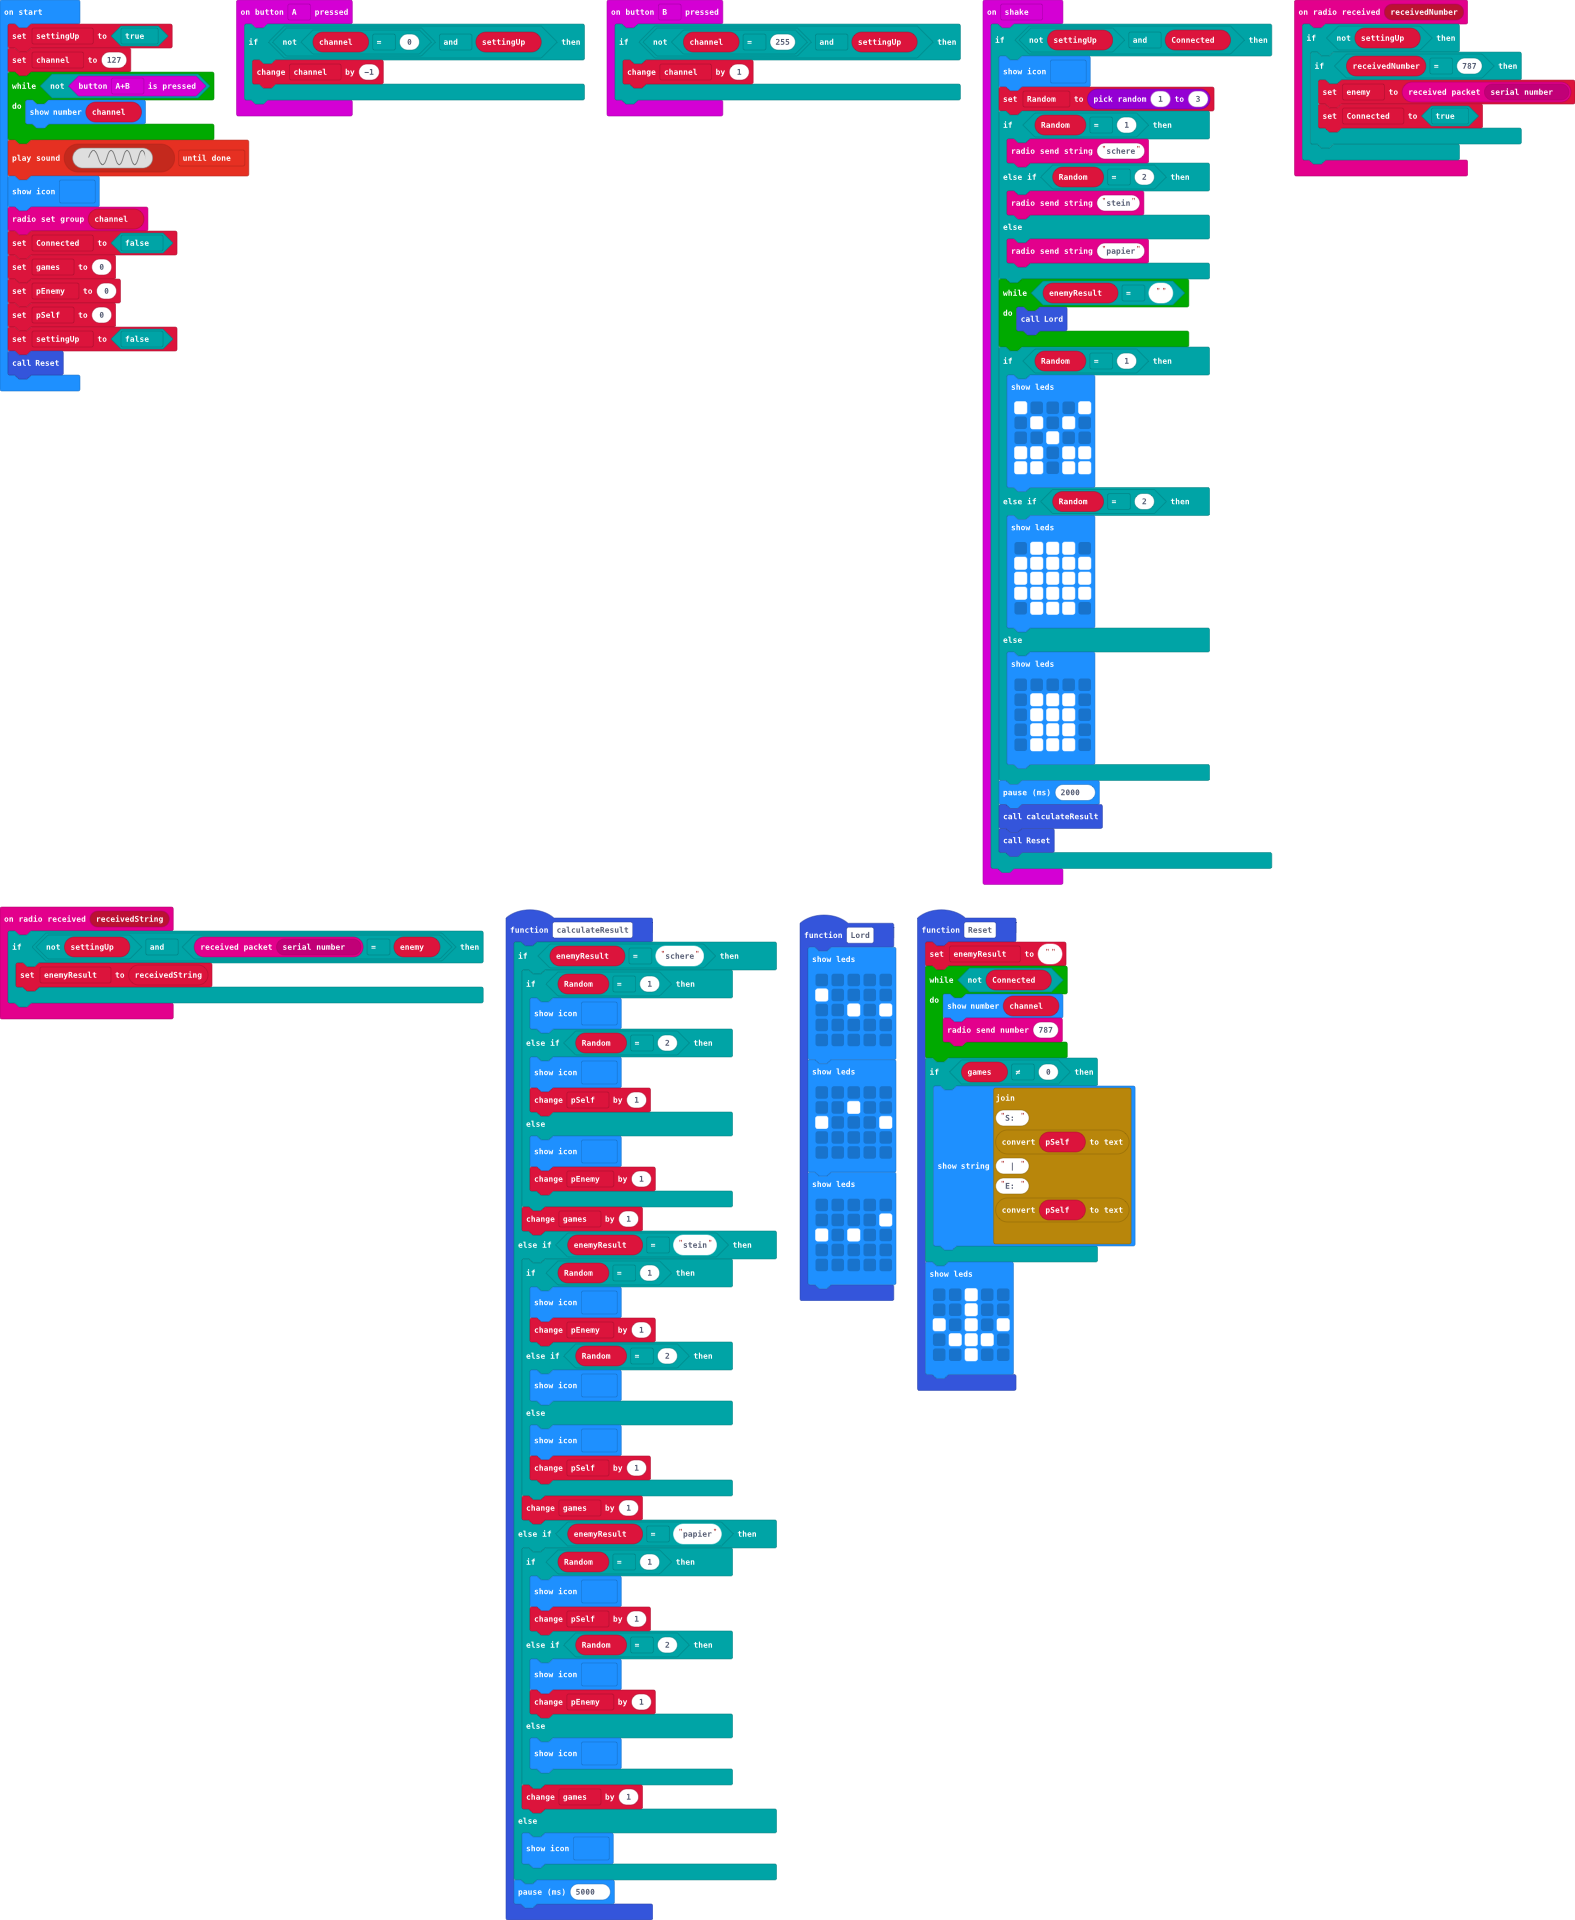
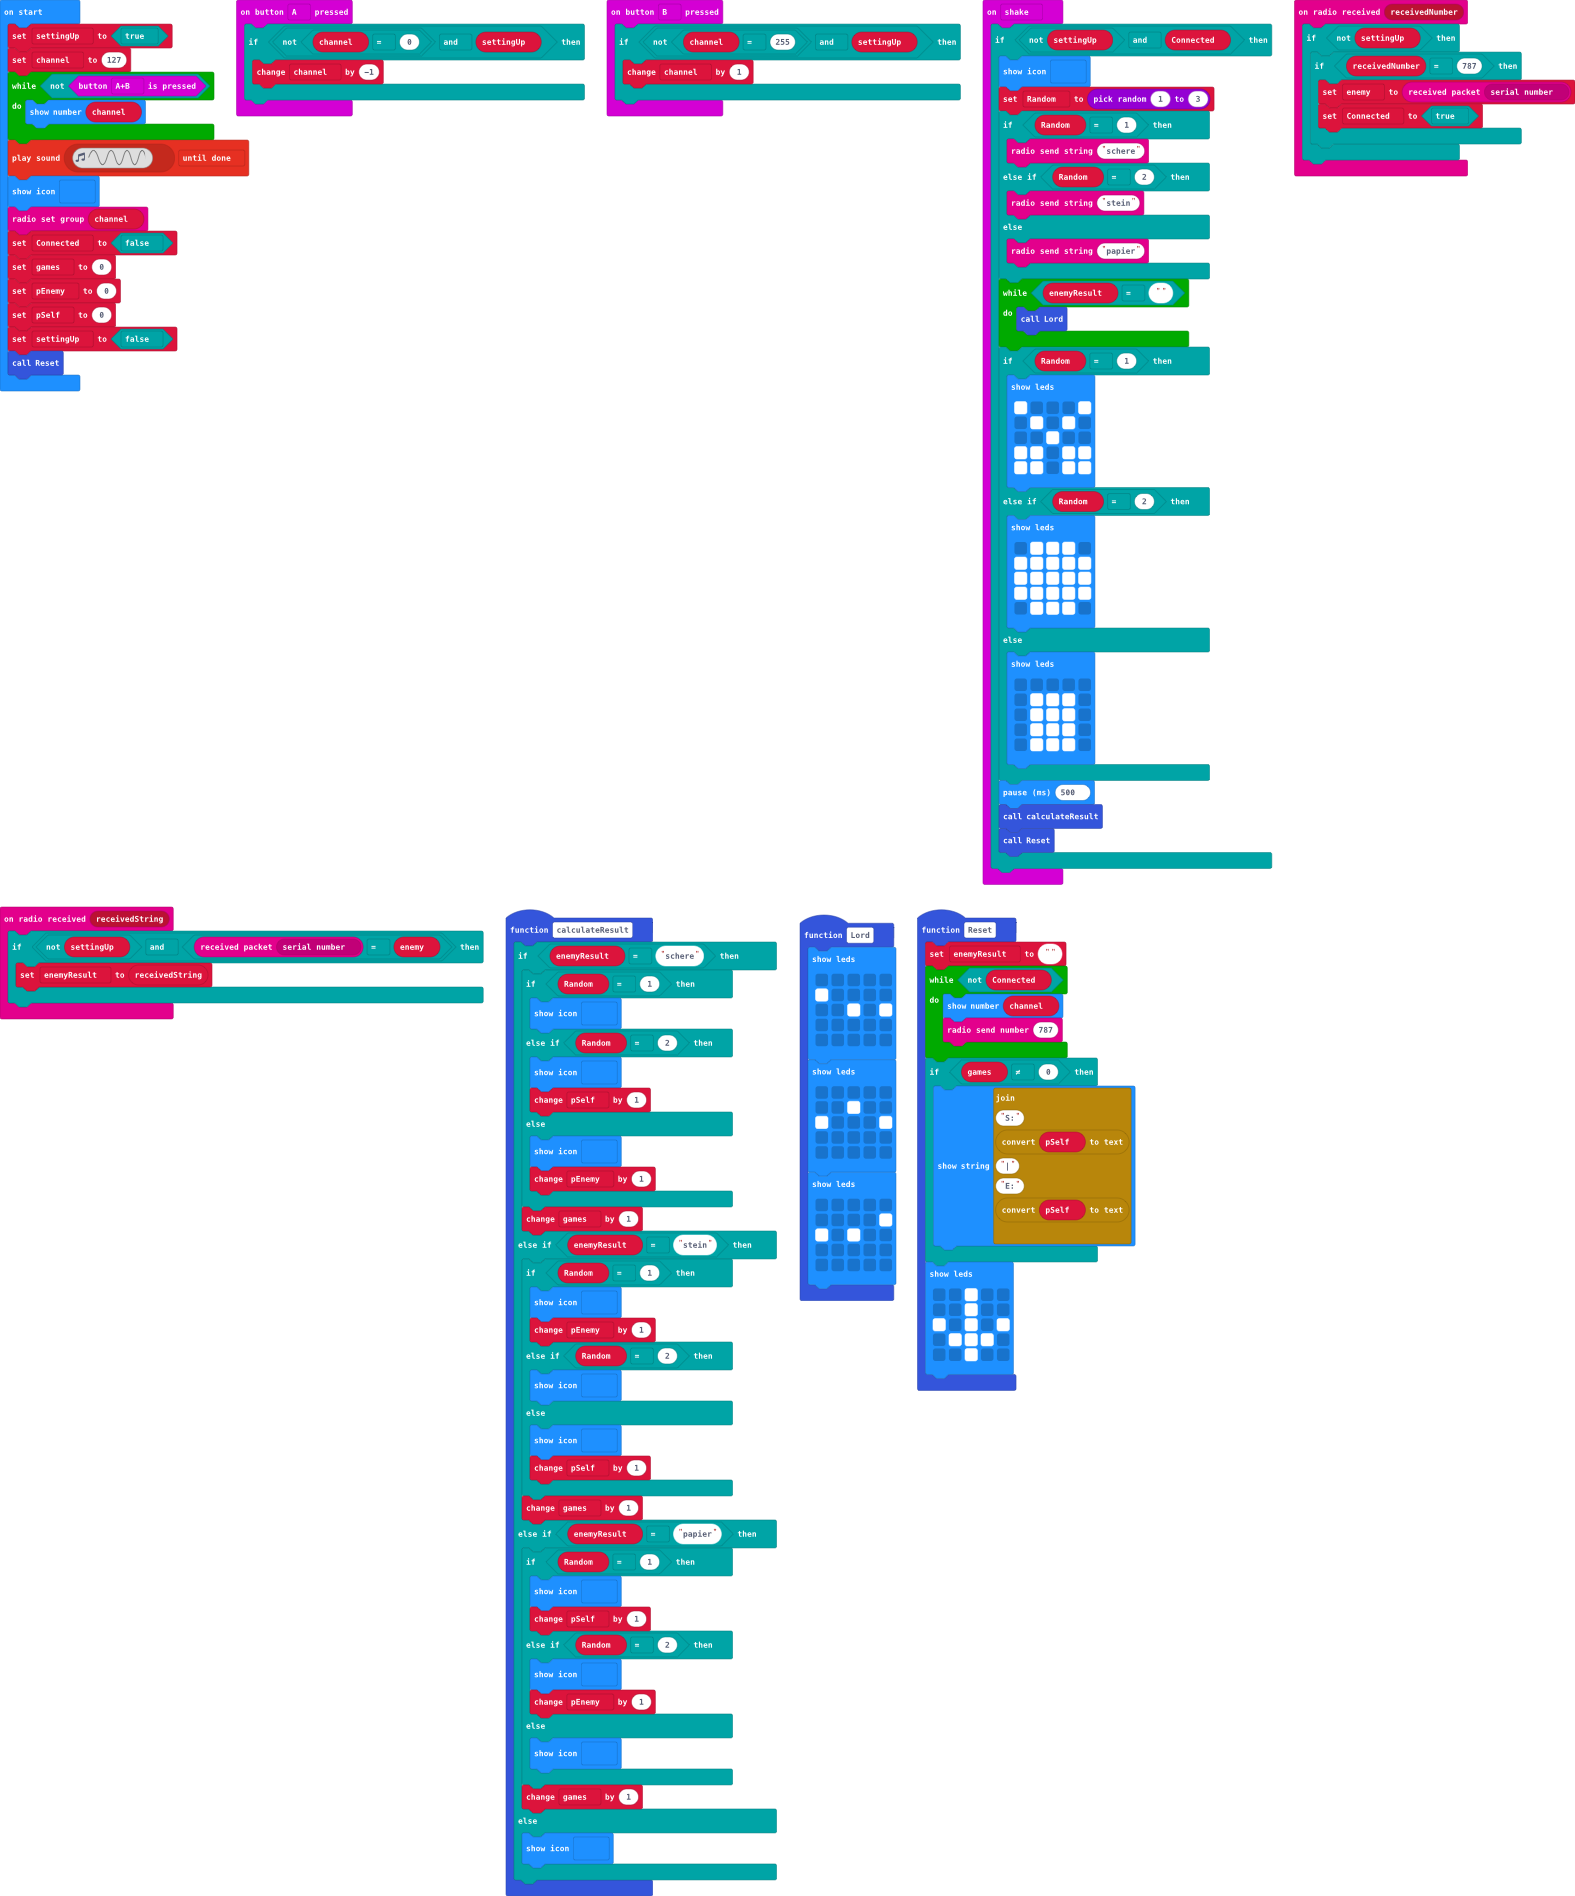
Update main.blocks, main.ts

diff --git a/main.ts b/main.ts
@@ -43,7 +43,6 @@ function calculateResult () {
     } else {
         basic.showIcon(IconNames.Confused)
     }
-    basic.pause(5000)
 }
 input.onButtonPressed(Button.A, function () {
     if (!(channel == 0) && settingUp) {
@@ -99,7 +98,7 @@ input.onGesture(Gesture.Shake, function () {
                 . # # # .
                 `)
         }
-        basic.pause(2000)
+        basic.pause(500)
         calculateResult()
         Reset()
     }
@@ -134,7 +133,7 @@ function Reset () {
         radio.sendNumber(787)
     }
     if (games != 0) {
-        basic.showString("S: " + convertToText(pSelf) + " | " + "E: " + convertToText(pSelf))
+        basic.showString("S:" + convertToText(pSelf) + "|" + "E:" + convertToText(pSelf))
     }
     basic.showLeds(`
         . . # . .
